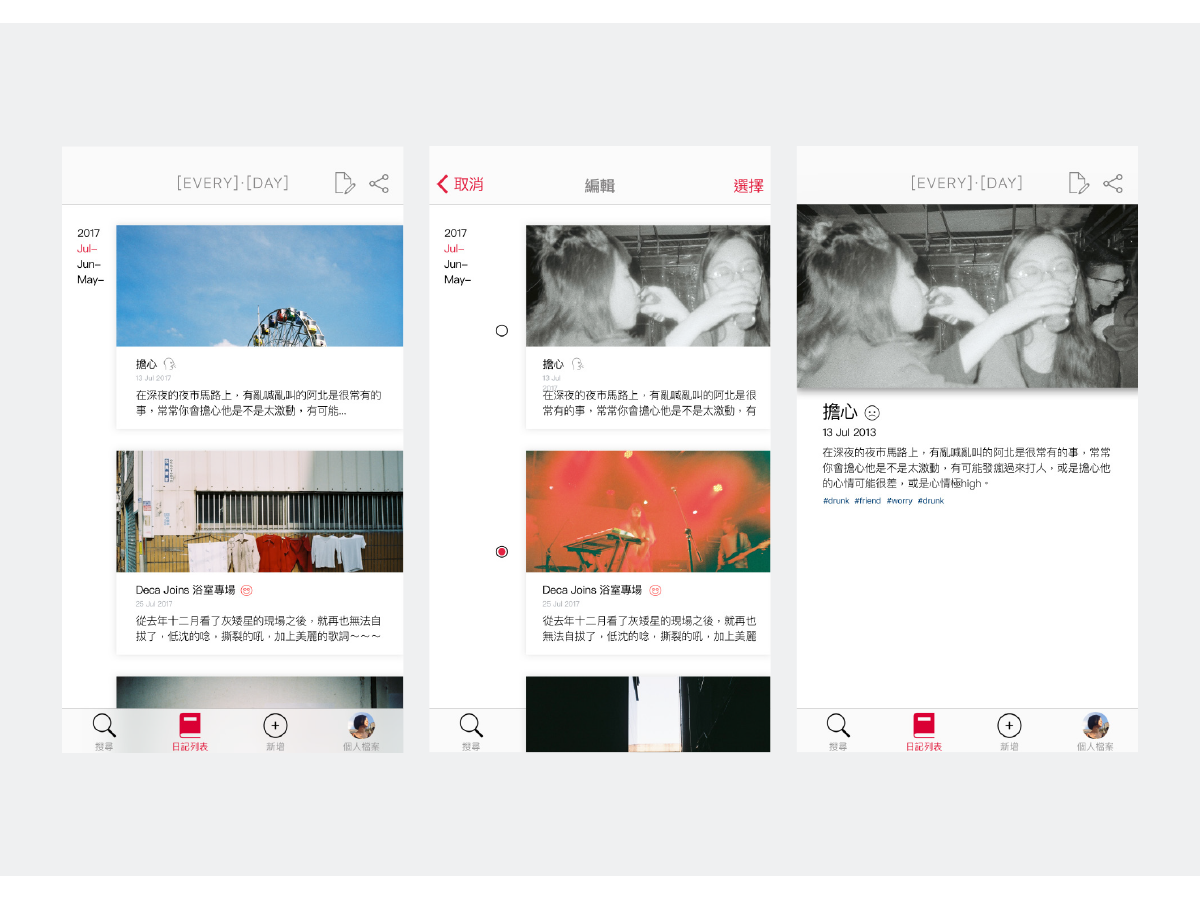
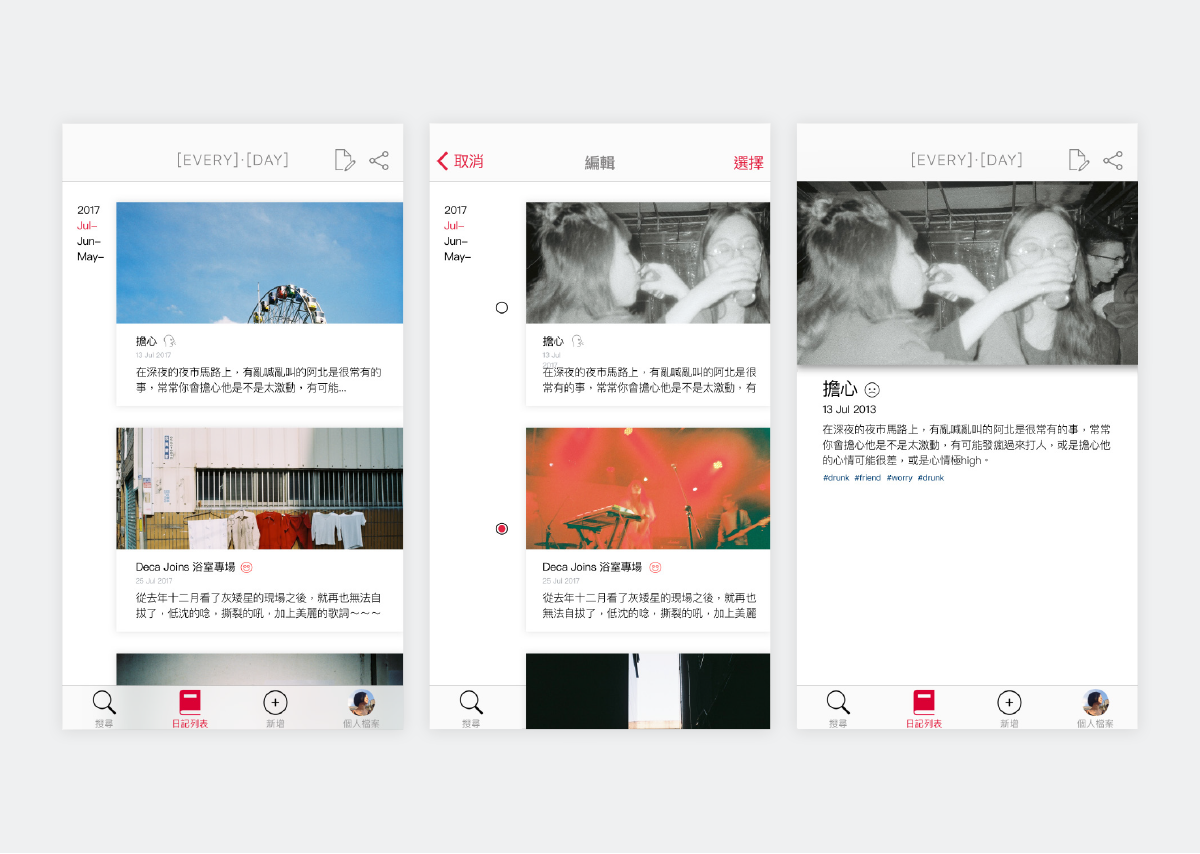
web & ui refresh

diff --git a/web&uiitem_html/airfurniture.html b/web&uiitem_html/airfurniture.html
@@ -34,24 +34,25 @@
 	        <div class="item biggersquare"><img src="../works-new/ui/air furniture/05.png" alt=""></div>
 	        <div class="info item">
 		    	<h1>AiR Furniture Website</h1>
-		    	<h2 class="ch">AiR Infatable Furniture為2017畢業展覽的主題，產品設計類。整體產品完成後，我們為AiR infatable Furniture建立品牌網站。網站方向以產品呈現為主，搭配視覺輔助圖形，營造充氣品牌的輕盈感受。 
-		    	<br>
-				AiR為一款專為單身族群設計的充氣家具。從「單身經濟」的議題出發，並選用充氣材質做家具，希望不只為單身族群帶來便於收納、且具生活享受的設計!
+		    	<a style="margin-bottom: 10px;" href="https://liuliangyin.github.io/AiR/" target="_blank" class="enter">Enter Website</a>
+		    	<h2 class="ch">AiR Infatable Furniture為2017畢業展覽的主題，產品設計類。AiR為一款專為單身族群設計的充氣家具。從「單身經濟」的議題出發，並選用充氣材質做家具，希望不只為單身族群帶來便於收納、且具生活享受的設計!
+		    	<br>整體產品完成後，我們為AiR infatable Furniture建立產品品牌網站。網站的landing page以產品的介紹為主，搭配視覺輔助圖形，營造充氣品牌的輕盈感受。 
 				<br>
 				-<br>	
 				團隊成員:譚雅云、陳凡、劉亮吟<br>
 				個人負責：產品發想、設計實作、展場規劃、品牌網站規劃、前端開發(html/css/jquery)</h2>
-				<a href="https://liuliangyin.github.io/AiR/" target="_blank" class="enter">Enter Website</a>
+				
 		    	
 		    </div>
 		    <div class="info item">
-		    	<h2>AiR infatable Furniture is the theme of our final team project, category of product design. After finishing our product, we decided to make a brand website of AiR. Main points are introducing and showing features of product. Creating graceful & light feelings of our inflatable brand.  <br>
+		    	<h2>AiR infatable Furniture is the theme of our final team project, category of product design. <br>
+		    	An inflatable furniture designed for single groups. From the "single economy" issue, and the use of inflatable material to do furniture, hopes that not only bring convenience for the single groups, and also enjoy the design of life!
+		    	<br>
+		    	After finishing our product, we decided to make a brand website of AiR. The landing page  introduces and shows features of product. Creating graceful & light feelings of our inflatable brand.  <br>
 
 				
-				An inflatable furniture designed for single groups. From the "single economy" issue, and the use of inflatable material to do furniture, hopes that not only bring convenience for the single groups, and also enjoy the design of life!
-				<br>	
 				-<br>
-				Responsible for design thinking, 1:1 solid modelling, exhibition planning, web design(html/css/jquery).</h2>
+				I'm responsible for design thinking, 1:1 solid modelling, exhibition planning, web design(html/css/jquery).</h2>
 	
 		    	<p>product design</p><p>web design</p><p>front-end develope</p><p>RWD</p>
 		    	

diff --git a/web&uiitem_html/everyday.html b/web&uiitem_html/everyday.html
@@ -25,23 +25,26 @@
 
 
 	<div class="wrapper">
-		<div class="horizon scroll sixthwidth">
+		<div class="horizon scroll eighthwidth">
 			<a href="musicshare.html" class="arrow arrow-left">previous<br><i class="fa fa-long-arrow-left fa-lg" aria-hidden="true"></i></a>
-	        <div class="item first square"><img src="../works-new/ui/app/01.png" alt=""></div>
+	        <div class="item "><img src="../works-new/ui/app/01.png" alt=""></div>
+	        
 	        <div class="item square"><img src="../works-new/ui/app/02.png" alt=""></div>
 	        <div class="item square"><img src="../works-new/ui/app/04.png" alt=""></div>
 	        <div class="item square"><img src="../works-new/ui/app/05.png" alt=""></div>
-	        
+	        <div class="item square"><img src="../works-new/ui/app/08.png" alt=""></div>
+	        <div class="item square"><img src="../works-new/ui/app/07.png" alt=""></div>
 	        <div class="info item">
 		    	<h1>Everyday Diary App</h1>
-		    	<h2>Everday Personal Dairy App是一款日記App，現代人越來越少提起筆來寫字，要大家養成每天寫日記的習慣，不好維持。用手機能迅速記錄下當時的心情及發生的大小事。因此發展此套app，希望大家能把生活小細節記錄下來。 
+		    	<h2 class="ch">Everday Personal Dairy App是一款日記App，現代人越來越少提起筆來寫字，要大家養成每天寫日記的習慣，不好維持。用手機能迅速記錄下當時的心情及發生的大小事。因此發展此套app，希望大家能把生活小細節記錄下來。<br>
+		    	-<br>
 				目標族群:平時有記錄生活習慣者、有寫日記習慣之使用者、總是無法持之以恆的使用者。目前為mockup階段。 <br>
 				-<br>設計流程：設計發想-資訊架構-流程規劃-線框初稿-視覺彩稿。以Sketch繪製彩稿。</h2>
 
 		 
 		    </div>
 		    <div class="info item">
-		    	<h2>People nowadays rarely write with pens and paper. So, it's hard to get into the habbit of keeping a diary. But you can rapidly note down your mood or things by phones! Hoping this app can let you remember the memories of life.<br>
+		    	<h2>People nowadays seldom write with pens and paper. So, it's hard to get into the habbit of keeping a diary. But you can rapidly note down your mood or things by phones! Hoping this app can let you remember the memories of life.<br>
 		    	-<br>
 		    	Target group:people who loves keeping a dairy, or those want to do it but can't.<br>
 		    	-<br>

diff --git a/web&uiitem_html/sendfuel.html b/web&uiitem_html/sendfuel.html
@@ -25,24 +25,19 @@
 
 
 	<div class="wrapper">
-		<div class="horizon scroll square seventhwidth">
+		<div class="horizon scroll thirdwidth">
 			<a href="airfurniture.html" class="arrow arrow-left">previous<br><i class="fa fa-long-arrow-left fa-lg" aria-hidden="true"></i></a>
-	        <div class="item first biggersquare"><img src="../works-new/ui/music share/01.png" alt=""></div>
-	        <div class="item square"><img src="../works-new/ui/music share/02.png" alt=""></div>
-	        <div class="item square"><img src="../works-new/ui/music share/category.gif" alt=""></div>
-	        <div class="item square"><img src="../works-new/ui/music share/info.gif" alt=""></div>
-	        <div class="item square"><img src="../works-new/ui/music share/10.png" alt=""></div>
+	        <div class="item first biggersquare"><img src="../works-new/ui/sendfuel/ezgif.com-video-to-gif-4.gif" alt=""></div>
+	        <div class="item  biggersquare"><img src="../works-new/ui/sendfuel/icon.png" alt=""></div>
+	        
 
 	        
 	        
 	        <div class="info item">
-		    	<h1>Music Share Website</h1>
-		    	<h2 class="ch">MUSICSHARE 是一個音樂分享和交換的網站，從個人興趣發展而來，主要分享個人喜愛的樂團及音樂給大家，讓這些台灣、亞洲、國外的獨立樂團有更多人喜歡。使用者也能在網站裡的留言板功能分享自己喜愛的音樂。 
-音樂是一種生活的方式，平時看現場表演，認識了不少樂團的音樂。 想聽聽不同音樂時，進來這個網站逛逛！<br>
--<br>
-目標族群:對獨立音樂及樂團有興趣者。<br>
--<br>
-設計流程：設計發想-資訊架構-流程規劃-線框初稿-視覺彩稿。以Sketch繪製彩稿。</h2>
+		    	<h1>Website Redesign</h1>
+		    	<h2 class="ch">聖得福建設有限公司Sheng De Fu Construction Development Co.,Ltd 網站重新設計，包含事前收集資料及網站的流程動線規劃及畫面的視覺設計。目前進度:初期提案。
+				
+				以Sketch繪製初稿。</h2>
 		    </div>
 		    <div class="info item">
 		    	<h2 >MUSICSHARE is a website for changing & sharing music, which developed from my personal interests. The main function is to recommand music & bands to everyone, hoping that more people will love these indie bands from Taiwan, Asia or all over the world. Users can aiso share thier music by leaving comments on share board. <br>

diff --git a/web&ui.html b/web&ui.html
@@ -36,7 +36,7 @@
 		</div>
 		<div class="gallery middle">
 				<a href="web&uiitem_html/musicshare.html" class="item">
-					<img src="works-new/ui/music share/01.png">
+					<img src="works-new/ui/music share/01 copy.png">
 					<h1><span>Music Share Website</span><br/>web design</h1>
 				</a>
 				
@@ -44,7 +44,7 @@
 		
 		<div class="gallery right">
 			<a href="web&uiitem_html/everyday.html" class="item">
-					<img src="works-new/ui/app/01.png">
+					<img src="works-new/ui/app/01 copy.png">
 					<h1><span>Everyday Diary App</span><br/>app UI design</h1>
 				</a>
 			
